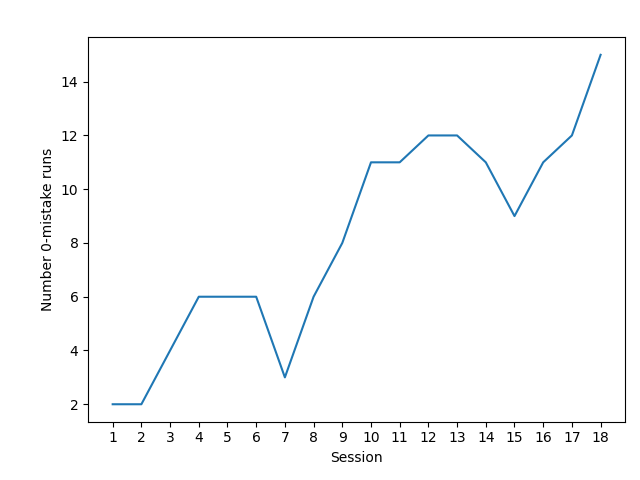
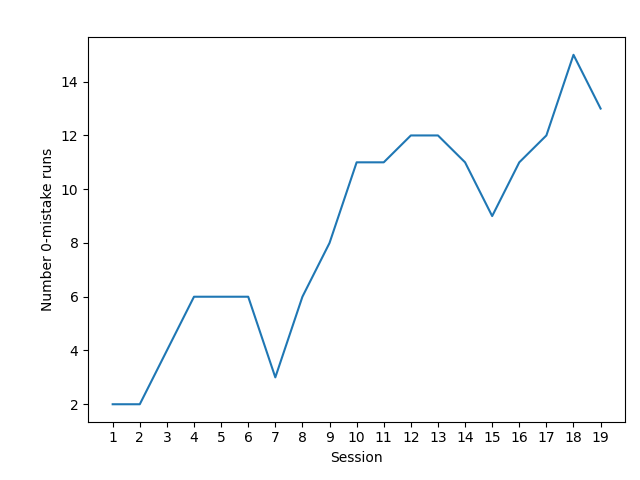
Session 19

diff --git a/analysis/generate_session_data.py b/analysis/generate_session_data.py
@@ -6,7 +6,7 @@ from generate_lm import generate_lm
 from generate_rolling import generate_rolling
 
 
-session_ID = "18"
+session_ID = "19"
 
 localStorage_to_raw(session_ID)
 raw_to_session(session_ID)

diff --git a/analysis/generate_agg_data.py b/analysis/generate_agg_data.py
@@ -103,7 +103,7 @@ def generate_agg_data(sessions):
     print("Aggregate data generated successfully.")
 
 
-upr = 19
+upr = 20
 
 generate_agg_data([str(i) for i in range(1, upr)])
 generate_lm(
